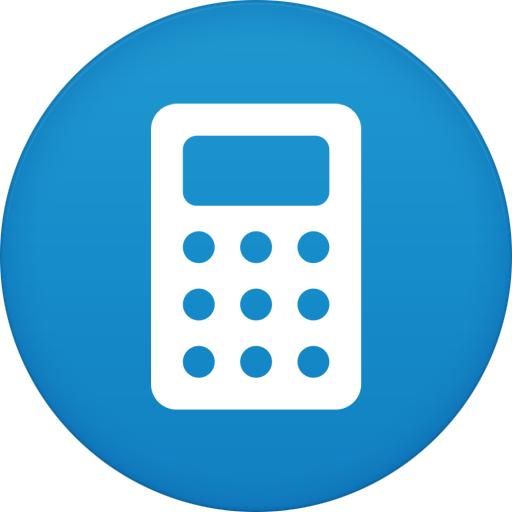
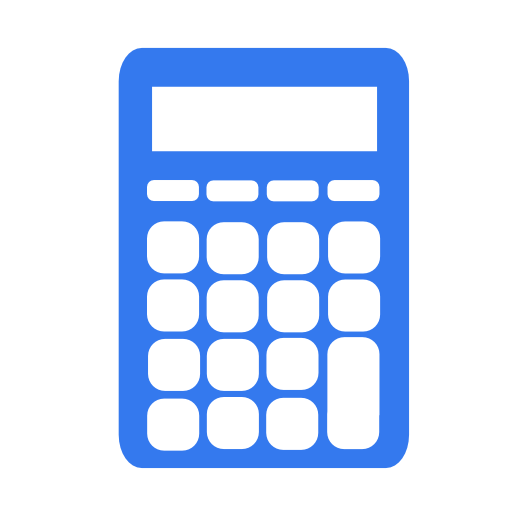
3

diff --git a/index.html b/index.html
@@ -24,11 +24,22 @@
       font-family: Arial, sans-serif;
     }
 
+    #fx {
+      position: fixed;
+      inset: 0;
+      width: 100%;
+      height: 100%;
+      pointer-events: none;
+      z-index: 0;
+    }
+
     .app {
+      position: relative;
+      z-index: 1;
       width: 100%;
       max-width: 380px;
       padding: 28px;
-      background: #1f2937;
+      background: #1f2937ee;
       border: 1px solid #374151;
       border-radius: 16px;
       box-shadow: 0 15px 40px #0003;
@@ -52,9 +63,13 @@
       font-weight: bold;
     }
 
+    .field {
+      position: relative;
+    }
+
     input {
       width: 100%;
-      padding: 14px;
+      padding: 14px 46px 14px 14px;
       border: 1px solid #4b5563;
       border-radius: 9px;
       background: #111827;
@@ -65,6 +80,31 @@
 
     input:focus {
       border-color: #60a5fa;
+    }
+
+    #clearBtn {
+      position: absolute;
+      right: 8px;
+      top: 50%;
+      transform: translateY(-50%);
+      width: 30px;
+      height: 30px;
+      margin: 0;
+      padding: 0;
+      border-radius: 50%;
+      background: #374151;
+      color: #d1d5db;
+      font-size: 16px;
+      line-height: 1;
+      display: none;
+    }
+
+    #clearBtn.show {
+      display: block;
+    }
+
+    #clearBtn:hover {
+      background: #4b5563;
     }
 
     .speed {
@@ -125,14 +165,17 @@
 </head>
 
 <body>
+  <canvas id="fx"></canvas>
+
   <main class="app">
     <h1>ETA Calculator</h1>
-    <p class="subtitle">
-      Arrival time calculated automatically at 57 mph.
-    </p>
+    <p class="subtitle">Arrival time calculated automatically at 57 mph.</p>
 
     <label for="miles">Distance (miles)</label>
-    <input id="miles" type="number" min="0" step="any" placeholder="Enter miles" autofocus>
+    <div class="field">
+      <input id="miles" type="number" min="0" step="any" placeholder="Enter miles" autofocus>
+      <button id="clearBtn" type="button" aria-label="Clear miles">✕</button>
+    </div>
 
     <div class="speed">Fixed speed: 57 mph</div>
 
@@ -140,9 +183,7 @@
       <div class="result-label">Estimated arrival</div>
       <div id="eta">--/-- --:--</div>
 
-      <button id="copyBtn" type="button" disabled>
-        Copy ETA
-      </button>
+      <button id="copyBtn" type="button" disabled>Copy ETA</button>
 
       <div id="message"></div>
     </section>
@@ -152,98 +193,132 @@
     const milesInput = document.getElementById("miles");
     const etaDisplay = document.getElementById("eta");
     const copyBtn = document.getElementById("copyBtn");
+    const clearBtn = document.getElementById("clearBtn");
     const message = document.getElementById("message");
 
     let etaText = "";
 
     function formatETA(date) {
       const pad = n => String(n).padStart(2, "0");
+      return pad(date.getMonth() + 1) + "/" + pad(date.getDate()) + " " +
+        pad(date.getHours()) + ":" + pad(date.getMinutes());
+    }
 
-      return (
-        pad(date.getMonth() + 1) + "/" +
-        pad(date.getDate()) + " " +
-        pad(date.getHours()) + ":" +
-        pad(date.getMinutes())
-      );
+    function reset(msg) {
+      etaText = "";
+      etaDisplay.textContent = "--/-- --:--";
+      copyBtn.disabled = true;
+      message.textContent = msg || "";
     }
 
     function calculateETA() {
       const value = milesInput.value.trim();
-
       message.textContent = "";
+      clearBtn.classList.toggle("show", value !== "");
 
-      if (value === "") {
-        etaText = "";
-        etaDisplay.textContent = "--/-- --:--";
-        copyBtn.disabled = true;
-        copyMilesBtn.disabled = true;
-        return;
-      }
+      if (value === "") return reset();
 
       const miles = Number(value);
+      if (!Number.isFinite(miles) || miles < 0) return reset("Enter a valid distance.");
 
-      if (!Number.isFinite(miles) || miles < 0) {
-        etaText = "";
-        etaDisplay.textContent = "--/-- --:--";
-        copyBtn.disabled = true;
-        copyMilesBtn.disabled = true;
-        message.textContent = "Enter a valid distance.";
-        return;
-      }
-
-      const travelTimeMs = (miles / 57) * 60 * 60 * 1000;
-      const arrival = new Date(Date.now() + travelTimeMs);
-
+      const arrival = new Date(Date.now() + (miles / 57) * 3600 * 1000);
       etaText = formatETA(arrival);
       etaDisplay.textContent = etaText;
-
       copyBtn.disabled = false;
-      copyMilesBtn.disabled = false;
     }
 
     milesInput.addEventListener("input", calculateETA);
 
-    // Copy ETA and clear the distance field
+    // Clear the miles field
+    clearBtn.addEventListener("click", function () {
+      milesInput.value = "";
+      calculateETA();
+      milesInput.focus();
+    });
+
+    // Copy ETA (field is kept)
     copyBtn.addEventListener("click", async function () {
       if (!etaText) return;
-
       try {
         await navigator.clipboard.writeText(etaText);
-
-        milesInput.value = "";
-        calculateETA();
-        milesInput.focus();
-
         message.textContent = "ETA copied!";
       } catch (error) {
-        message.textContent =
-          "Copy failed. Try using HTTPS or localhost.";
+        message.textContent = "Copy failed. Try using HTTPS or localhost.";
       }
     });
 
-    // Copy miles without clearing the distance field
-    copyMilesBtn.addEventListener("click", async function () {
-      const value = milesInput.value.trim();
-      const miles = Number(value);
+    /* ---------- Floating names (always on) ---------- */
+    const NAMES = ["Connor", "Alex", "Ellis", "Zack", "Leo", "Alice", "Rob", "Michael", "Sam",
+      "Lia", "Oliver", "Kevin", "Nicholas", "Simon", "Sophia", "Ashley"];
+    const canvas = document.getElementById("fx");
+    const ctx = canvas.getContext("2d");
+    let W = 0, H = 0, floaters = [];
 
-      if (
-        value === "" ||
-        !Number.isFinite(miles) ||
-        miles < 0
-      ) {
-        return;
+    function resize() {
+      const dpr = window.devicePixelRatio || 1;
+      W = window.innerWidth;
+      H = window.innerHeight;
+      canvas.width = W * dpr;
+      canvas.height = H * dpr;
+      ctx.setTransform(dpr, 0, 0, dpr, 0, 0);
+    }
+
+    function initNames() {
+      floaters = [];
+      for (let copy = 0; copy < 2; copy++) {
+        for (const name of NAMES) {
+          const speed = 0.25 + Math.random() * 0.7;
+          const angle = Math.random() * Math.PI * 2;
+          floaters.push({
+            name,
+            x: Math.random() * W,
+            y: Math.random() * H,
+            vx: Math.cos(angle) * speed,
+            vy: Math.sin(angle) * speed,
+            size: 14 + Math.random() * 18,
+            alpha: 0.18 + Math.random() * 0.25,
+            hue: Math.floor(Math.random() * 360),
+            rot: (Math.random() - 0.5) * 0.5,
+            rotV: (Math.random() - 0.5) * 0.002,
+            phase: Math.random() * Math.PI * 2
+          });
+        }
       }
+    }
 
-      const milesText = `Rolling ${miles} mi`;
+    function frame() {
+      ctx.clearRect(0, 0, W, H);
+      ctx.textAlign = "center";
+      ctx.textBaseline = "middle";
 
-      try {
-        await navigator.clipboard.writeText(milesText);
-        message.textContent = "Miles copied!";
-      } catch (error) {
-        message.textContent =
-          "Copy failed. Try using HTTPS or localhost.";
+      for (const f of floaters) {
+        f.phase += 0.02;
+        f.x += f.vx;
+        f.y += f.vy + Math.sin(f.phase) * 0.3;
+        f.rot += f.rotV;
+
+        const m = 80;
+        if (f.x > W + m) f.x = -m;
+        else if (f.x < -m) f.x = W + m;
+        if (f.y > H + m) f.y = -m;
+        else if (f.y < -m) f.y = H + m;
+
+        ctx.save();
+        ctx.translate(f.x, f.y);
+        ctx.rotate(f.rot);
+        ctx.globalAlpha = f.alpha;
+        ctx.fillStyle = "hsl(" + f.hue + ",80%,75%)";
+        ctx.font = "bold " + f.size + "px Arial, sans-serif";
+        ctx.fillText(f.name, 0, 0);
+        ctx.restore();
       }
-    });
+      requestAnimationFrame(frame);
+    }
+
+    window.addEventListener("resize", () => { resize(); initNames(); });
+    resize();
+    initNames();
+    frame();
   </script>
 </body>
 
